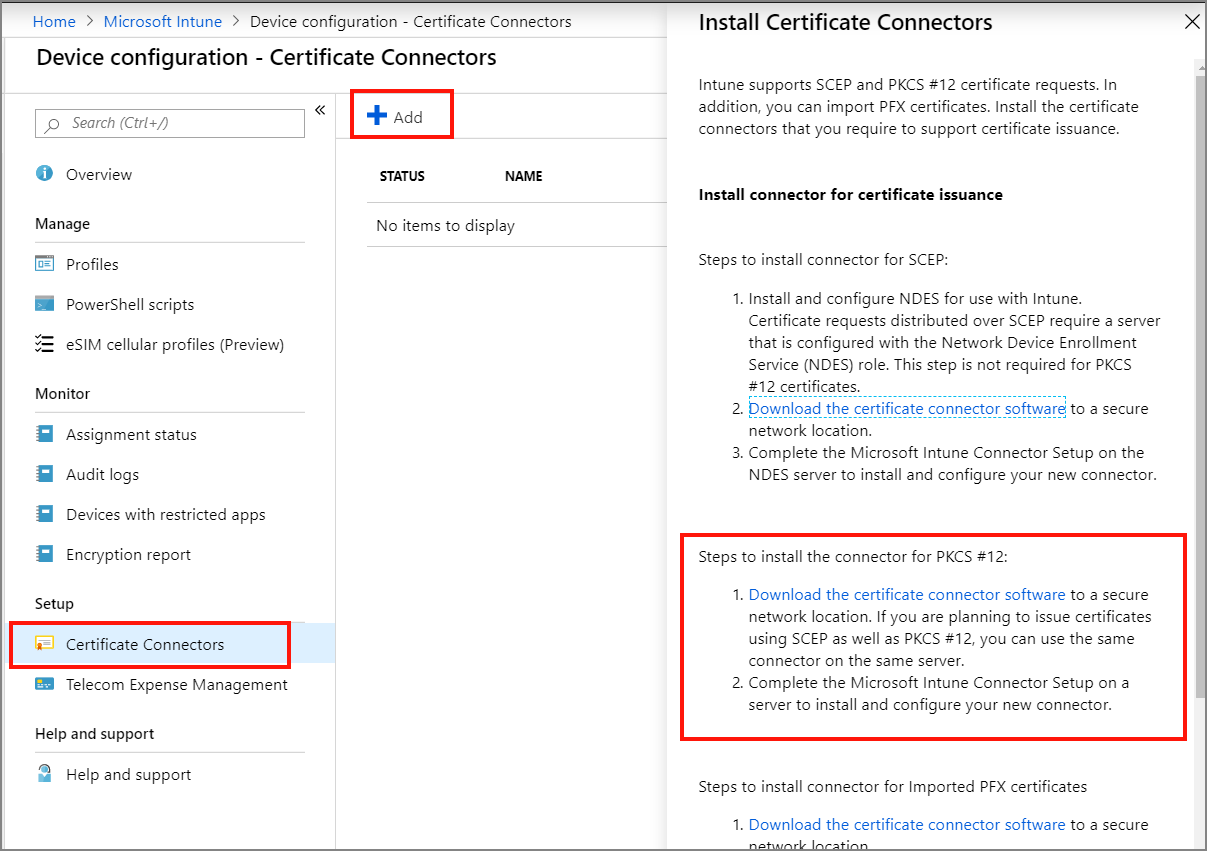
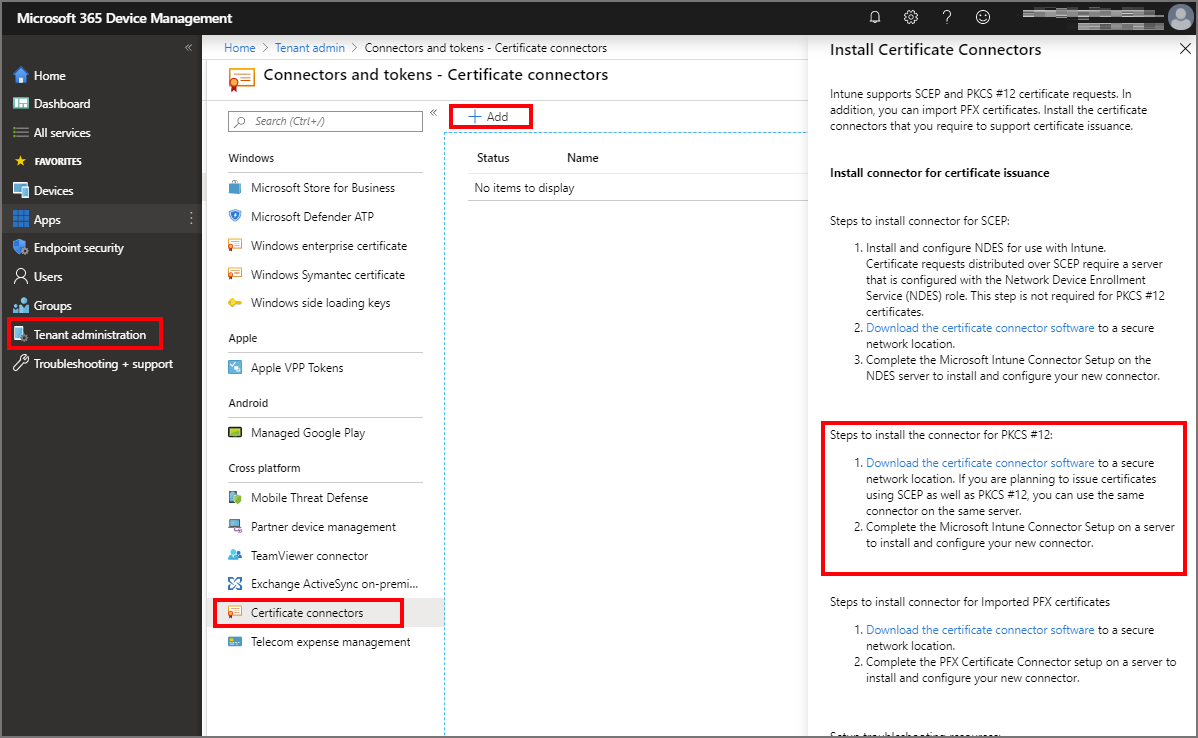
revisions UI and images for the EMAC

diff --git a/intune/protect/certificates-digicert-configure.md b/intune/protect/certificates-digicert-configure.md
@@ -6,7 +6,7 @@ keywords:
 author: brenduns
 ms.author: brenduns
 manager: dougeby
-ms.date: 06/19/2019
+ms.date: 11/07/2019
 ms.topic: conceptual
 ms.service: microsoft-intune
 ms.subservice: protect
@@ -27,12 +27,11 @@ ms.custom: intune-azure
 
 ms.collection: M365-identity-device-management
 ---
-# Set up Intune Certificate Connector for DigiCert PKI Platform  
+# Set up Intune Certificate Connector for DigiCert PKI Platform
 
-[!INCLUDE [azure_portal](../includes/azure_portal.md)]
+Use Intune Certificate Connector to issue PKCS certificates from DigiCert PKI Platform to Intune-managed devices. You can use the connector with only a DigiCert certification authority (CA), or with both a DigiCert CA and a Microsoft CA.
 
-Use Intune Certificate Connector to issue PKCS certificates from DigiCert PKI Platform to Intune-managed devices. You can use the connector with only a DigiCert certification authority (CA), or with both a DigiCert CA and a Microsoft CA.  
-> [!TIP]  
+> [!TIP]
 > DigiCert acquired Symantec’s Website Security and related PKI Solutions business. For more information about this change, see the [Symantec technical support article](https://support.symantec.com/en_US/article.INFO4722.html).
 
 If you already use the Intune Certificate Connector to issue certificates from a Microsoft CA by using PKCS or System Center Endpoint Protection, you can use that same connector to configure and issue PKCS certificates from a DigiCert CA. After you complete the configuration to support the DigiCert CA, Intune Certificate Connector can issue the following certificates:
@@ -43,15 +42,16 @@ If you already use the Intune Certificate Connector to issue certificates from a
 
 If you don't have the connector installed but plan to use it for both a Microsoft CA and a DigiCert CA, complete the connector configuration for the Microsoft CA first. Then, return to this article to configure it to also support DigiCert. For more information about certificate profiles and the connector, see [Configure a certificate profile for your devices in Microsoft Intune](certificates-configure.md).  
 
-If you'll use the connector with only the DigiCert CA, you can use the instructions in this article to install and then configure the connector. 
+If you'll use the connector with only the DigiCert CA, you can use the instructions in this article to install and then configure the connector.
 
-## Prerequisites  
+## Prerequisites
+
 - **An active subscription at the DigiCert CA**: The subscription is required to get a registration authority (RA) certificate from the DigiCert CA.
 
-## Install the DigiCert RA certificate  
- 
+## Install the DigiCert RA certificate
+
 1. Save the following code snippet as in a file named **certreq.ini** and update it as required (for example: *Subject name in CN format*).
- 
+
         [Version] 
         Signature="$Windows NT$" 
         
@@ -83,7 +83,6 @@ If you'll use the connector with only the DigiCert CA, you can use the instructi
 
 3. Open the request.csr file in Notepad and copy the CSR content that's in the following format:
 
-
         -----BEGIN NEW CERTIFICATE REQUEST-----
[1 lines of base64/hex data omitted]
         …
@@ -94,11 +93,11 @@ If you'll use the connector with only the DigiCert CA, you can use the instructi
 
 4. Sign in to the DigiCert CA and browse to **Get an RA Cert** from the tasks.
 
-   a. In the text box, provide the CSR content from step 3. 
+   a. In the text box, provide the CSR content from step 3.
 
    b. Provide a friendly name for the certificate.
 
-   c. Select **Continue**. 
+   c. Select **Continue**.
 
    d. Use the provided link to download the RA certificate to your local computer.
 
@@ -106,23 +105,23 @@ If you'll use the connector with only the DigiCert CA, you can use the instructi
 
    a. Open an MMC console.
 
-   b. Select **File** > **Add or Remove Snap-ins** > **Certificate** > **Add**. 
+   b. Select **File** > **Add or Remove Snap-ins** > **Certificate** > **Add**.
 
    c. Select **Computer Account** > **Next**.
 
-   d. Select **Local Computer** > **Finish**. 
+   d. Select **Local Computer** > **Finish**.
 
    e. Select **OK** in the **Add or Remove Snap-ins** window. Expand **Certificates (Local Computer)** > **Personal** > **Certificates**.
 
-   f. Right-click the **Certificates** node and select **All Tasks** > **Import**.  
+   f. Right-click the **Certificates** node and select **All Tasks** > **Import**.
 
    g. Select the location of the RA certificate that you downloaded from the DigiCert CA, and then select **Next**.
 
-   h. Select **Personal Certificate Store** > **Next**. 
+   h. Select **Personal Certificate Store** > **Next**.
 
-   i. Select **Finish** to import the RA certificate and its private key into the **Local Machine-Personal** store.  
+   i. Select **Finish** to import the RA certificate and its private key into the **Local Machine-Personal** store.
 
-6. Export and import the private key certificate: 
+6. Export and import the private key certificate:
 
    a. Expand **Certificates (Local Machine)** > **Personal** > **Certificates**.
 
@@ -136,16 +135,17 @@ If you'll use the connector with only the DigiCert CA, you can use the instructi
 
    f. Use the procedure from step 5 to import the private key certificate into the **Local Computer-Personal** store.
 
-   g. Record a copy the RA certificate thumbprint without any spaces. The following is an example of the thumbprint: 
+   g. Record a copy the RA certificate thumbprint without any spaces. The following is an example of the thumbprint:
 
         RA Cert Thumbprint: “EA7A4E0CD1A4F81CF0740527C31A57F6020C17C5”
-    
+
     > [!NOTE]
-    > For assistance in getting the RA certificate from the DigiCert CA, contact [DigiCert customer support](mailto:enterprise-pkisupport@digicert.com).  
+    > For assistance in getting the RA certificate from the DigiCert CA, contact [DigiCert customer support](mailto:enterprise-pkisupport@digicert.com).
 
 ## Prepare to install Intune Certificate Connector
-> [!TIP]  
-> This section applies if you'll use Intune Certificate Connector with only a DigiCert CA. If you use Intune Certificate Connector with a Microsoft CA and want to add DigiCert CA support, skip ahead to [Configure the connector to support DigiCert](#configure-the-connector-to-support-digicert).  
+
+> [!TIP]
+> This section applies if you'll use Intune Certificate Connector with only a DigiCert CA. If you use Intune Certificate Connector with a Microsoft CA and want to add DigiCert CA support, skip ahead to [Configure the connector to support DigiCert](#configure-the-connector-to-support-digicert).
 
 1. Choose one of the Windows operating system versions from the following list and install it on a computer:
    * Windows Server 2012 R2 Datacenter
@@ -161,31 +161,31 @@ If you'll use the connector with only the DigiCert CA, you can use the instructi
 
    a. Open **Control Panel** > **Programs and Features** > **Turn Windows features on or off**.
 
-   b. Select **.NET Framework 3.5** and install it.  
+   b. Select **.NET Framework 3.5** and install it.
 
-## Install Intune Certificate Connector for use with DigiCert  
+## Install Intune Certificate Connector for use with DigiCert
 
-> [!TIP]  
-> If you use the Intune Certificate Connector with a Microsoft CA and want to add DigiCert CA support, skip ahead to [Configure the connector to support DigiCert](#configure-the-connector-to-support-digicert).  
+> [!TIP]
+> If you use the Intune Certificate Connector with a Microsoft CA and want to add DigiCert CA support, skip ahead to [Configure the connector to support DigiCert](#configure-the-connector-to-support-digicert).
 
 Download the latest Intune Certificate Connector version from the Intune administration portal and follow these instructions.
 
-1. Sign in to [Intune](https://go.microsoft.com/fwlink/?linkid=2090973).  
+1. Sign in to the [Microsoft Endpoint Manager Admin Center](https://go.microsoft.com/fwlink/?linkid=2109431).
 
-2. Select **Device configuration** > **Certificate Connectors** > **+ Add**.  
+2. Select **Tenant administration** > **Connectors and tokens** > **Certificate connectors** > **+ Add**.
 
-3. Select **Download the certificate connector software**. Save the software to a location where you can access it from the server where you're going to install it.  
+3. Click *Download the certificate connector software* for the connector for PKCS #12, and save the file to a location you can access from the server where you're going to install the connector.
 
    ![Download the connector software](./media/certificates-digicert-configure/connector-download.png)
-   
-4. On the server where you want to install the connector, run **NDESConnectorSetup.exe** with elevated privileges. 
 
-5. On the **Installation Options** page, select **PFX Distribution**.  
-   
+4. On the server where you want to install the connector, run **NDESConnectorSetup.exe** with elevated privileges.
+
+5. On the **Installation Options** page, select **PFX Distribution**.
+
    ![Select PFX Distribution](./media/certificates-digicert-configure/digicert-ca-connector-install.png)
 
    > [!IMPORTANT]
-   > If you'll use the Intune Certificate Connector to issue certificates from a Microsoft CA and a DigiCert CA, select **SCEP and PFX Profile Distribution**. 
+   > If you'll use the Intune Certificate Connector to issue certificates from a Microsoft CA and a DigiCert CA, select **SCEP and PFX Profile Distribution**.
 
 6. Use the default selections to finish setting up the connector.
 
@@ -199,7 +199,7 @@ By default, Intune Certificate Connector is installed in **%ProgramFiles%\Micros
 
         <add key="RACertThumbprint"
         value="EA7A4E0CD1A4F81CF0740527C31A57F6020C17C5"/>
-   
+
    b. Save and close the file.
 
 2. Open **services.msc**:
@@ -212,20 +212,18 @@ By default, Intune Certificate Connector is installed in **%ProgramFiles%\Micros
 
 ## Set up the Intune administrator account  
 
-> [!TIP]  
-> If you use Intune Certificate Connector with a Microsoft CA and want to add DigiCert CA support, skip ahead to [Create a trusted certificate profile](#create-a-trusted-certificate-profile).   
+> [!TIP]
+> If you use Intune Certificate Connector with a Microsoft CA and want to add DigiCert CA support, skip ahead to [Create a trusted certificate profile](#create-a-trusted-certificate-profile).
  
-1. Open the NDES Connector user interface from **%ProgramFiles%\Microsoft Intune\NDESConnectorUI\NDESConnectorUI.exe**.  
+1. Open the NDES Connector user interface from **%ProgramFiles%\Microsoft Intune\NDESConnectorUI\NDESConnectorUI.exe**.
 
 2. On the **Enrollment** tab, select **Sign In**.
 
 3. Provide your Intune tenant admin credentials.
 
 4. Select **Sign In**, and then select **OK** to confirm a successful enrollment. You can then close the NDES Connector user interface.
-   
+
    ![NDES Connector interface with "Successfully enrolled" message](./media/certificates-digicert-configure/certificates-digicert-configure-connector-configure.png)
-
-
 
 ## Create a trusted certificate profile
 
@@ -233,36 +231,37 @@ The PKCS certificates you'll deploy for Intune managed devices must be chained w
 
 1. Get a trusted root certificate from the DigiCert CA:
 
-    a. Sign in to the DigiCert CA admin portal.
+   a. Sign in to the DigiCert CA admin portal.
 
-    b. Select **Manage CAs** from **Tasks**. 
+   b. Select **Manage CAs** from **Tasks**.
 
-    c. Select the appropriate CA from the list.  
+   c. Select the appropriate CA from the list.
 
-    d. Select **Download root certificate** to download the trusted root certificate.
+   d. Select **Download root certificate** to download the trusted root certificate.
 
 2. Create a trusted certificate profile in the Intune portal:
 
-   a. Sign in to [Intune](https://go.microsoft.com/fwlink/?linkid=2090973).
+   a. Sign in to the [Microsoft Endpoint Manager Admin Center](https://go.microsoft.com/fwlink/?linkid=2109431).
 
-   b. Select **Device configuration** > **Manage** > **Profiles** > **Create profile**.
+   b. Select **Devices** > **Configuration profiles** > **Create profile**.
 
-   c. Enter **Name** and **Description** details for the trusted certificate profile.
+   c. Enter the following properties:
 
-   d. From the **Platform** drop-down list, select the device platform for this trusted certificate.
+      - **Name** for the profile
+      - Optionally set a **Description**
+      - **Platform** to deploy the profile to
+      - Set **Profile type** to **Trusted certificate**
 
-   e. From the **Profile type** drop-down list, select **Trusted certificate**.
+   f. Select **Settings**, and then browse to the trusted root CA certificate .cer file you exported for use with this certificate profile, and then select **OK**.
 
-   f. Browse to the trusted root CA .cer file that you obtained from the DigiCert CA in the previous step, and then select **OK**.
-
-   g. For Windows 8.1 and Windows 10 devices only, select the destination store for the trusted certificate from:    
-      - **Computer certificate store - Root**  
-      - **Computer certificate store - Intermediate**  
-      - **User certificate store - Intermediate** 
+   g. For Windows 8.1 and Windows 10 devices only, select the **Destination Store** for the trusted certificate from:
+      - **Computer certificate store - Root**
+      - **Computer certificate store - Intermediate**
+      - **User certificate store - Intermediate**
 
    h. When you're done, select **OK**, go back to the **Create profile** pane, and select **Create**.  
- 
-The profile appears in the list of profiles in the **Device configuration – Profiles** pane, with a profile type of **Trusted certificate**.  Be sure to assign this profile to devices that will receive certificates. To assign the profile to groups, see [Assign device profiles](../configuration/device-profile-assign.md).
+
+  The profile appears in the list of profiles in the **Device configuration – Profiles** pane, with a profile type of **Trusted certificate**.  Be sure to assign this profile to devices that will receive certificates. To assign the profile to groups, see [Assign device profiles](../configuration/device-profile-assign.md).
 
 
 ## Get the certificate profile OID  
@@ -274,40 +273,40 @@ The certificate profile OID is associated with a certificate profile template in
 3. Select the certificate profile that you want to use.
 4. Copy the certificate profile OID. It looks similar to the following example:
 
- 
        Certificate Profile OID = 2.16.840.1.113733.1.16.1.2.3.1.1.47196109 
- 
 
 > [!NOTE]
 > If you need help to get the certificate profile OID, contact [DigiCert customer support](mailto:enterprise-pkisupport@digicert.com).
 
 ## Create a PKCS certificate profile
 
-1. Sign in to [Intune](https://go.microsoft.com/fwlink/?linkid=2090973).  
+1. Sign in to the [Microsoft Endpoint Manager Admin Center](https://go.microsoft.com/fwlink/?linkid=2109431).
 
-2. Go to **Device configuration** >  **Profiles**, and select **Create profile**.
+2. Select **Devices** > **Configuration profiles** > **Create profile**.
 
-3. Enter **Name** and **Description** details for the PKCS certificate profile.  
+3. Enter the following properties:
 
-4. From the **Platform** drop-down list, select a supported device platform.
+   - **Name** for the profile
+   - Optionally set a **Description**
+   - **Platform** to deploy the profile to
+   - Set **Profile type** to **PKCS certificate**
 
-5. From the **Profile type** drop-down list, select **PKCS certificate**.
- 
-6. In the **PKCS Certificate** pane, configure parameters with the values from the following table. These values are required to issue PKCS certificates from a DigiCert CA, through Intune Certificate Connector. 
+4. In the **PKCS Certificate** pane, configure parameters with the values from the following table. These values are required to issue PKCS certificates from a DigiCert CA, through Intune Certificate Connector.
 
    |PKCS certificate parameter | Value | Description |
    | --- | --- | --- |
    | Certificate authority | pki-ws.symauth.com | This value must be the DigiCert CA base service FQDN without trailing slashes. If you aren't sure whether this is the correct base service FQDN for your DigiCert CA subscription, contact DigiCert customer support. <br><br>*With the change from Symantec to DigiCert, this URL remains unchanged*. <br><br> If this FQDN is incorrect, Intune Certificate Connector won't issue PKCS certificates from the DigiCert CA.| 
    | Certificate authority name | Symantec | This value must be the string **Symantec**. <br><br> If there's any change to this value, Intune Certificate Connector won't issue PKCS certificates from the DigiCert CA.|
-   | Certificate template name | Certificate profile OID from the DigiCert CA. For example: **2.16.840.1.113733.1.16.1.2.3.1.1.61904612**| This value must be a certificate profile OID [obtained in the previous section](#get-the-certificate-profile-oid) from the DigiCert CA certificate profile template. <br><br> If Intune Certificate Connector can't find a certificate template associated with this certificate profile OID in the DigiCert CA, it won't issue PKCS certificates from the DigiCert CA.|  
+   | Certificate template name | Certificate profile OID from the DigiCert CA. For example: **2.16.840.1.113733.1.16.1.2.3.1.1.61904612**| This value must be a certificate profile OID [obtained in the previous section](#get-the-certificate-profile-oid) from the DigiCert CA certificate profile template. <br><br> If Intune Certificate Connector can't find a certificate template associated with this certificate profile OID in the DigiCert CA, it won't issue PKCS certificates from the DigiCert CA.|
 
-   ![Selections for CA and certificate template](./media/certificates-digicert-configure/certificates-digicert-pkcs-example.png)  
+   ![Selections for CA and certificate template](./media/certificates-digicert-configure/certificates-digicert-pkcs-example.png)
 
    > [!NOTE]
    > The PKCS certificate profile for Windows platforms doesn’t need to associate with a trusted certificate profile. But it is required for non-Windows platform profiles such as Android.
-7. Complete the configuration of the profile to meet your business needs, and then select **OK** to save the profile. 
 
-8. Select **Assignments** and configure an appropriate group that will receive this profile. At least one user or device must be part of the assigned group.
+5. Complete the configuration of the profile to meet your business needs, and then select **Create** to save the profile.
+
+6. On the *Overview* page of the new profile, select **Assignments** and configure an appropriate group that will receive this profile. At least one user or device must be part of the assigned group.
  
 After you complete the previous steps, Intune Certificate Connector will issue PKCS certificates from the DigiCert CA to Intune-managed devices in the assigned group. These certificates will be available in the **Personal** store of the **Current User** certificate store on the Intune-managed device.
 
@@ -316,7 +315,7 @@ After you complete the previous steps, Intune Certificate Connector will issue P
 |Attribute | Intune supported formats | DigiCert Cloud CA supported formats | result |
 | --- | --- | --- | --- |
 | Subject name |Intune supports the subject name in following three formats only: <br><br> 1. Common name <br> 2. Common name that includes email <br> 3. Common name as email <br><br> For example: <br><br> `CN = IWUser0 <br><br> E = IWUser0@samplendes.onmicrosoft.com` | The DigiCert CA supports more attributes.  If you want to select more attributes, they must be defined with fixed values in the DigiCert certificate profile template.| We use common name or email from the PKCS certificate request. <br><br> Any mismatch in attribute selection between the Intune certificate profile and the DigiCert certificate profile template results in no certificates issued from the DigiCert CA.|
-| SAN | Intune supports only the following SAN field values: <br><br> **AltNameTypeEmail** <br> **AltNameTypeUpn** <br> **AltNameTypeOtherName** (encoded value) | The DigiCert Cloud CA also supports these parameters. If you want to select more attributes, they must be defined with fixed values in the DigiCert certificate profile template. <br><br> **AltNameTypeEmail**: If this type isn't found in the SAN, Intune Certificate Connector uses the value from **AltNameTypeUpn**.  If **AltNameTypeUpn** is also not found in the SAN, then Intune Certificate Connector uses the value from the subject name if it’s in email format.  If the type is still not found, Intune Certificate Connector fails to issue the certificates. <br><br> Example: `RFC822 Name=IWUser0@ndesvenkatb.onmicrosoft.com`  <br><br> **AltNameTypeUpn**: If this type is not found in the SAN, Intune Certificate Connector uses the value from **AltNameTypeEmail**. If **AltNameTypeEmail** is also not found in the SAN, then Intune Certificate Connector uses the value from subject name if it’s in email format. If the type is still not found, Intune Certificate Connector fails to issue the certificates.  <br><br> Example: `Other Name: Principal Name=IWUser0@ndesvenkatb.onmicrosoft.com` <br><br> **AltNameTypeOtherName**: If this type isn't found in the SAN, Intune Certificate Connector fails to issue the certificates. <br><br> Example: `Other Name: DS Object Guid=04 12 b8 ba 65 41 f2 d4 07 41 a9 f7 47 08 f3 e4 28 5c ef 2c` <br><br>  Note that the value of this field is supported only in encoded format (hexadecimal value) by the DigiCert CA. For any value in this field, Intune Certificate Connector converts it to base64 encoding before it submits the certificate request. *Intune Certificate Connector doesn’t validate whether this value is already encoded or not.* | None |
+| SAN | Intune supports only the following SAN field values: <br><br> **AltNameTypeEmail** <br> **AltNameTypeUpn** <br> **AltNameTypeOtherName** (encoded value) | The DigiCert Cloud CA also supports these parameters. If you want to select more attributes, they must be defined with fixed values in the DigiCert certificate profile template. <br><br> **AltNameTypeEmail**: If this type isn't found in the SAN, Intune Certificate Connector uses the value from **AltNameTypeUpn**.  If **AltNameTypeUpn** is also not found in the SAN, then Intune Certificate Connector uses the value from the subject name if it’s in email format.  If the type is still not found, Intune Certificate Connector fails to issue the certificates. <br><br> Example: `RFC822 Name=IWUser0@ndesvenkatb.onmicrosoft.com`  <br><br> **AltNameTypeUpn**: If this type is not found in the SAN, Intune Certificate Connector uses the value from **AltNameTypeEmail**. If **AltNameTypeEmail** is also not found in the SAN, then Intune Certificate Connector uses the value from subject name if it’s in email format. If the type is still not found, Intune Certificate Connector fails to issue the certificates.  <br><br> Example: `Other Name: Principal Name=IWUser0@ndesvenkatb.onmicrosoft.com` <br><br> **AltNameTypeOtherName**: If this type isn't found in the SAN, Intune Certificate Connector fails to issue the certificates. <br><br> Example: `Other Name: DS Object Guid=04 12 b8 ba 65 41 f2 d4 07 41 a9 f7 47 08 f3 e4 28 5c ef 2c` <br><br>  The value of this field is supported only in encoded format (hexadecimal value) by the DigiCert CA. For any value in this field, Intune Certificate Connector converts it to base64 encoding before it submits the certificate request. *Intune Certificate Connector doesn’t validate whether this value is already encoded or not.* | None |
 
 ## Troubleshooting
 
@@ -324,7 +323,7 @@ Intune Certificate Connector service logs are available in **%ProgramFiles%\Micr
 
 | Issue/error message | Resolution steps |
 | --- | --- |
-| Unable to sign in with the Intune tenant admin account on NDES Connector UI. | This can happen when the on-premises certificate connector isn't enabled in the Intune administration portal. To resolve this issue, use either of the following procedures: <br><br> From the Silverlight UI: <br> 1. Sign in to the [Intune admin portal](https://admin.manage.microsoft.com). <br> 2. Select **ADMIN**. <br> 3. Select **Mobile Device Management** > **Certificate Connector**. <br> 4. Select **Configure On-premises Certificate Connector**. <br> 5. Select the **Enable Certificate Connector** check box. <br> 6. Select **OK**. <br><br> From the Azure portal UI: <br> 1. Sign in to the [Azure portal](https://portal.azure.com). <br> 2. Go to Microsoft Intune. <br> 3. Select **Device Configuration** > **Certificate Authority**. <br> 4. Select **Enable**. <br><br> After you complete the previous steps from either the Silverlight UI or the Azure portal, try to sign in with the same Intune tenant admin account in the NDES Connector UI. |
+| Unable to sign in with the Intune tenant admin account on NDES Connector UI. | This can happen when the on-premises certificate connector isn't enabled in the Microsoft Endpoint Manager Admin Center. To resolve this issue: <br><br> 1. Sign in to the [Microsoft Endpoint Manager Admin Center](https://go.microsoft.com/fwlink/?linkid=2109431). <br> 2. Select **Tenant administration** > **Connectors and tokens** > **Certificate connectors**. <br> 3. Locate the certificate connector and ensure it's enabled. <br><br> After you complete the previous steps, try to sign in with the same Intune tenant admin account in the NDES Connector UI. |
 | NDES Connector certificate could not be found. <br><br> System.ArgumentNullException: Value can't be null. | Intune Certificate Connector shows this error if the Intune tenant administrator account has never signed in to the NDES Connector UI. <br><br> If this error persists, restart Intune Service Connector. <br><br> 1. Open **services.msc**. <br> 2. Select **Intune Connector Service**. <br> 3. Right-click and select **Restart**.|
 | NDES Connector - IssuePfx -Generic Exception: <br> System.NullReferenceException: Object reference not set to an instance of an object. | This error is transient. Restart Intune Service Connector. <br><br> 1. Open **services.msc**. <br> 2. Select **Intune Connector Service**. <br> 3. Right-click and select **Restart**. |
 | DigiCert Provider - Failed to get DigiCert policy. <br><br>“The operation has timed out.” | Intune Certificate Connector received an operation time-out error while communicating with the DigiCert CA. If this error continues to occur, increase the connection time-out value and try again. <br><br> To increase the connection time-out: <br> 1. Go to the NDES Connector computer. <br>2. Open the **%ProgramFiles%\Microsoft Intune\NDESConnectorSvc\NDESConnector.exe.config** file in Notepad. <br> 3. Increase the time-out value for the following parameter: <br><br> `CloudCAConnTimeoutInMilliseconds` <br><br> 4. Restart the Intune Certificate Connector service. <br><br> If the issue persists, contact DigiCert customer support. |
@@ -338,4 +337,3 @@ Intune Certificate Connector service logs are available in **%ProgramFiles%\Micr
 ## Next steps
 
 Use the information in this article in addition to the information in [What are Microsoft Intune device profiles?](../configuration/device-profiles.md) to manage your organization's devices and the certificates on them.
-

diff --git a/intune/protect/certficates-pfx-configure.md b/intune/protect/certficates-pfx-configure.md
@@ -146,7 +146,7 @@ To authenticate a device with VPN, WiFi, or other resources, a device needs a ro
 
 1. Sign in to the [Microsoft Endpoint Manager Admin Center](https://go.microsoft.com/fwlink/?linkid=2109431).
 
-2. Select **Tenant administration** > ** > **Certification connectors** > **Add**.
+2. Select **Tenant administration** > **Connectors and tokens** > **Certificate connectors** > **+ Add**.
 
 3. Click *Download the certificate connector software* for the connector for PKCS #12, and save the file to a location you can access from the server where you're going to install the connector.
 
